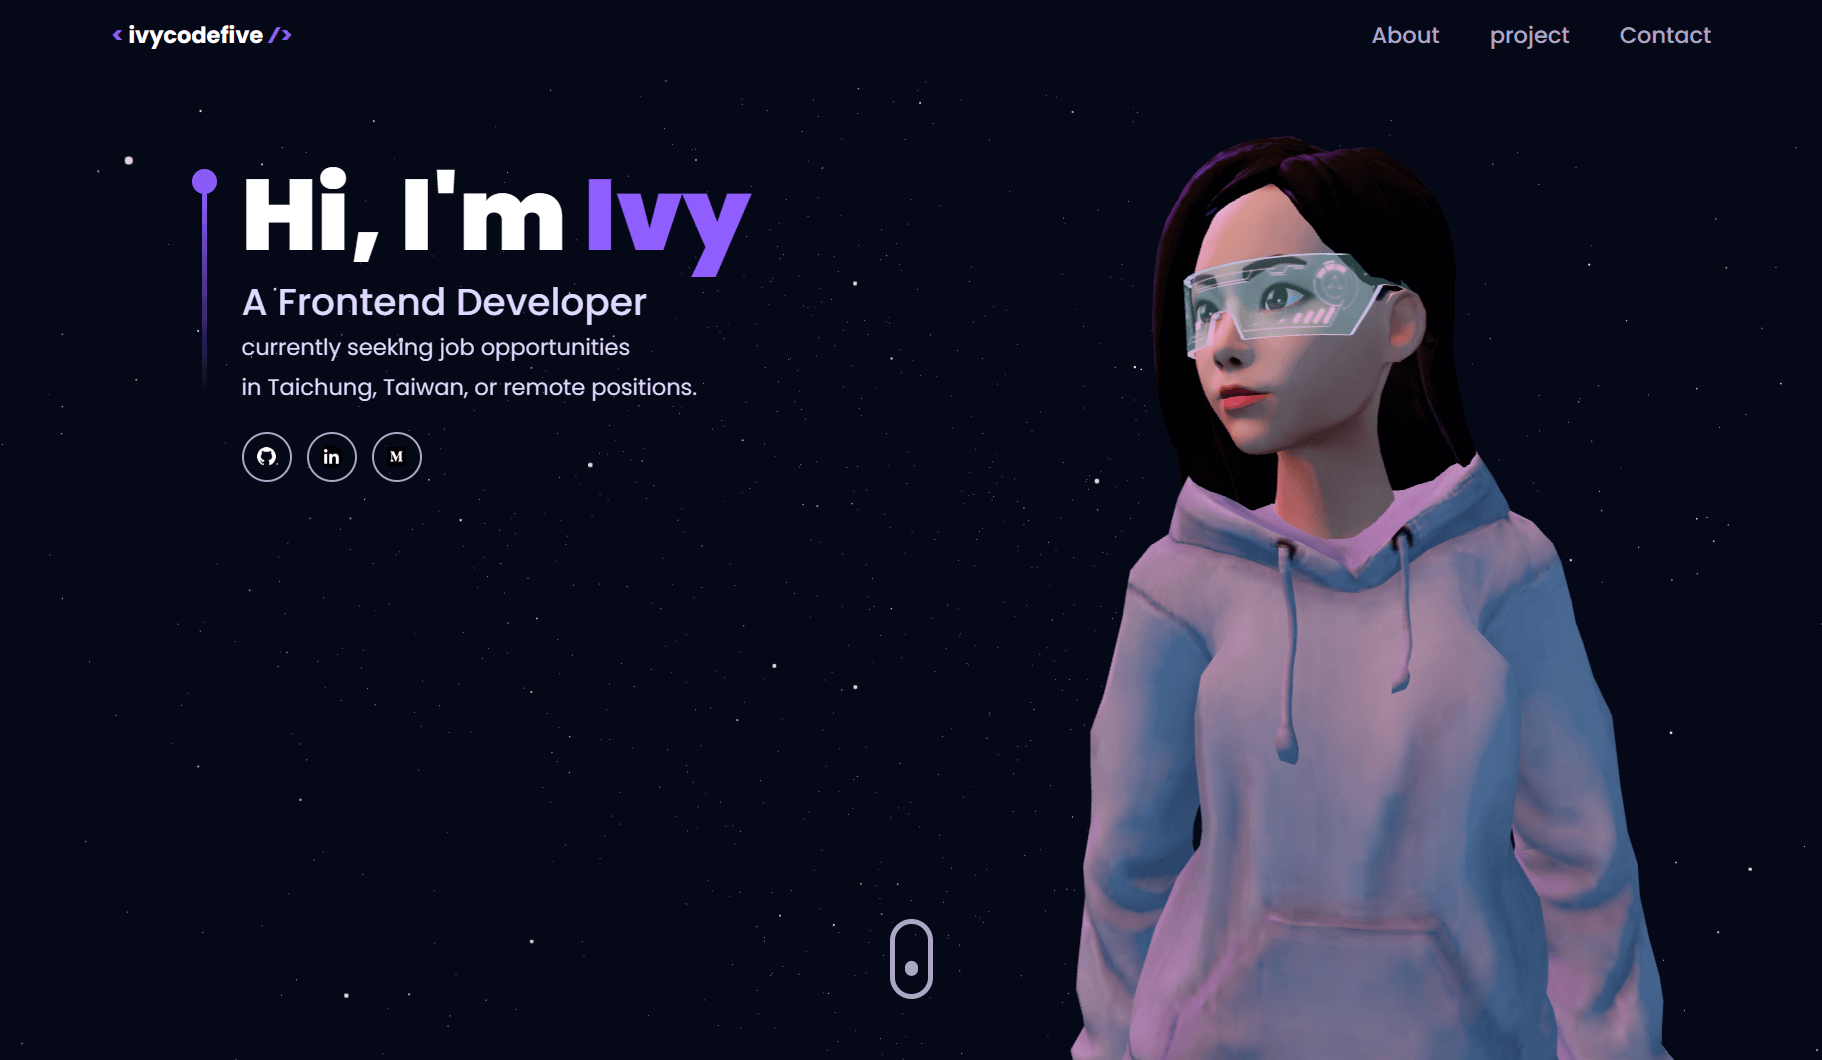
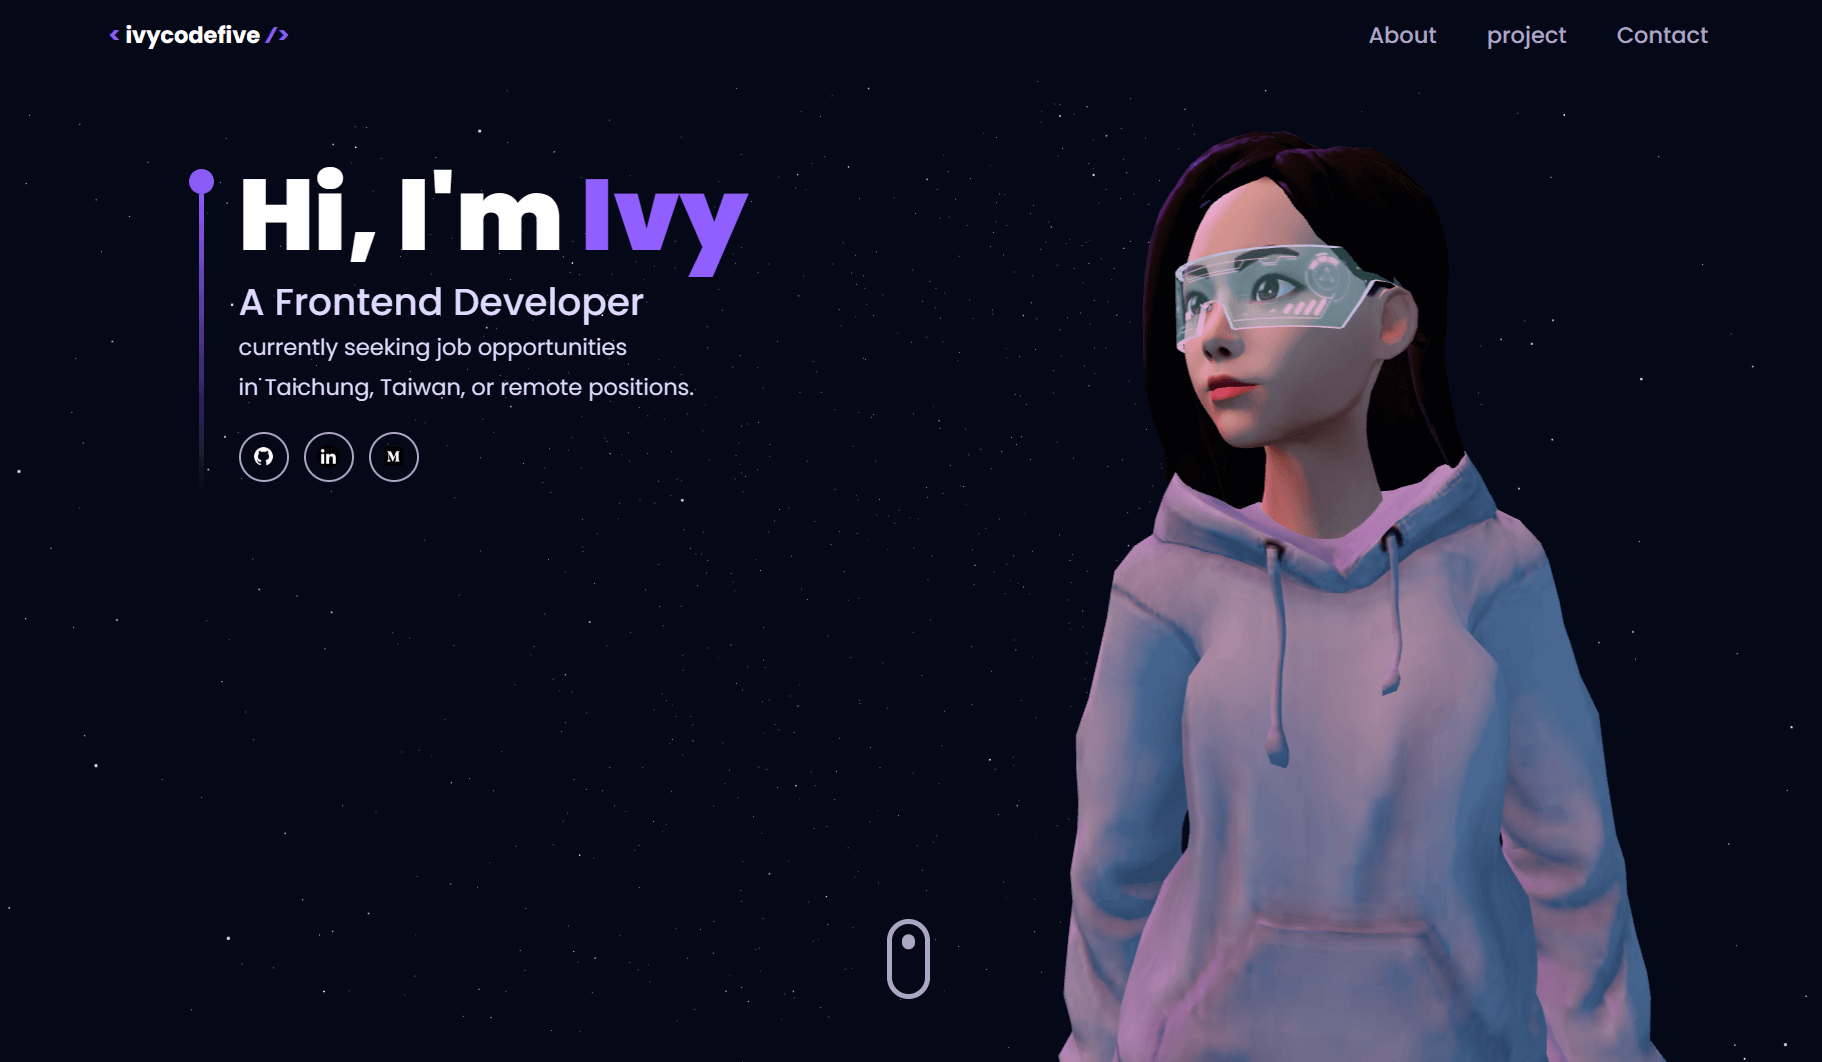
update: Hero decoration, portfolio image

diff --git a/src/components/Hero.jsx b/src/components/Hero.jsx
@@ -9,12 +9,12 @@ const Hero = () => {
     <section className='relative '>
 
       {/* text content  */}
-      <div className={`${styles.paddingX} absolute inset-0 top-[80px] lg:top-[120px] max-w-7xl mx-auto max-h-0 lg:max-h-auto flex flex-row items-start gap-5 z-10 lg:z-0`}>
+      <div className={`${styles.paddingX} absolute inset-0 top-[80px] lg:top-[120px] max-w-7xl mx-auto max-h-auto flex flex-row items-start gap-5 z-10 lg:z-0`}>
 
         {/* deco */}
         <div className='flex flex-col justify-center items-center mt-5'>
           <div className='w-5 h-5 rounded-full bg-violet-500' />
-            <div className='w-1 sm:h-80 h-52 lg:h-40 bg-gradient-to-b from-violet-500 to-transparent ' />
+            <div className='w-1 h-52 sm:h-60 bg-gradient-to-b from-violet-500 to-transparent ' />
         </div>
 
         {/* header */}
